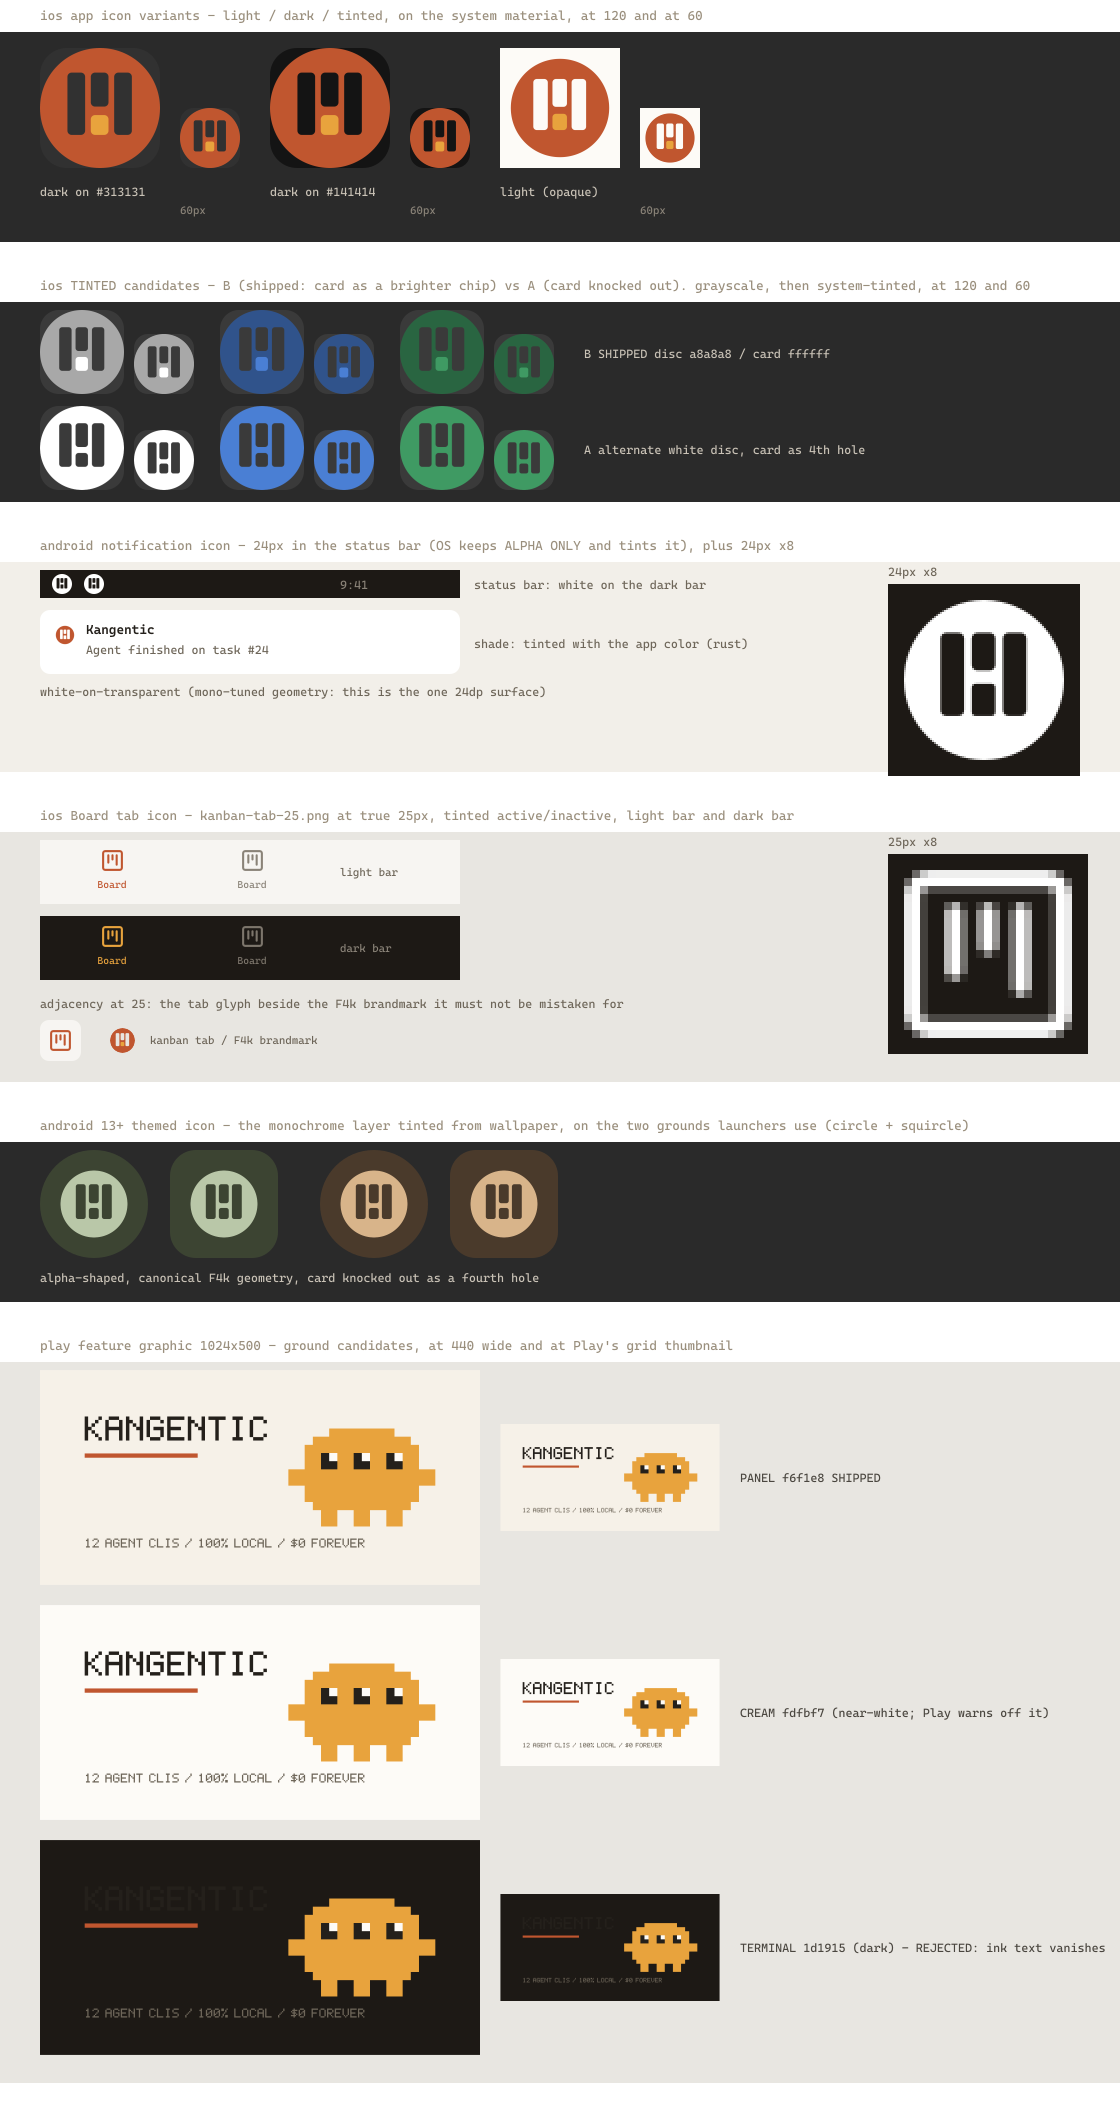
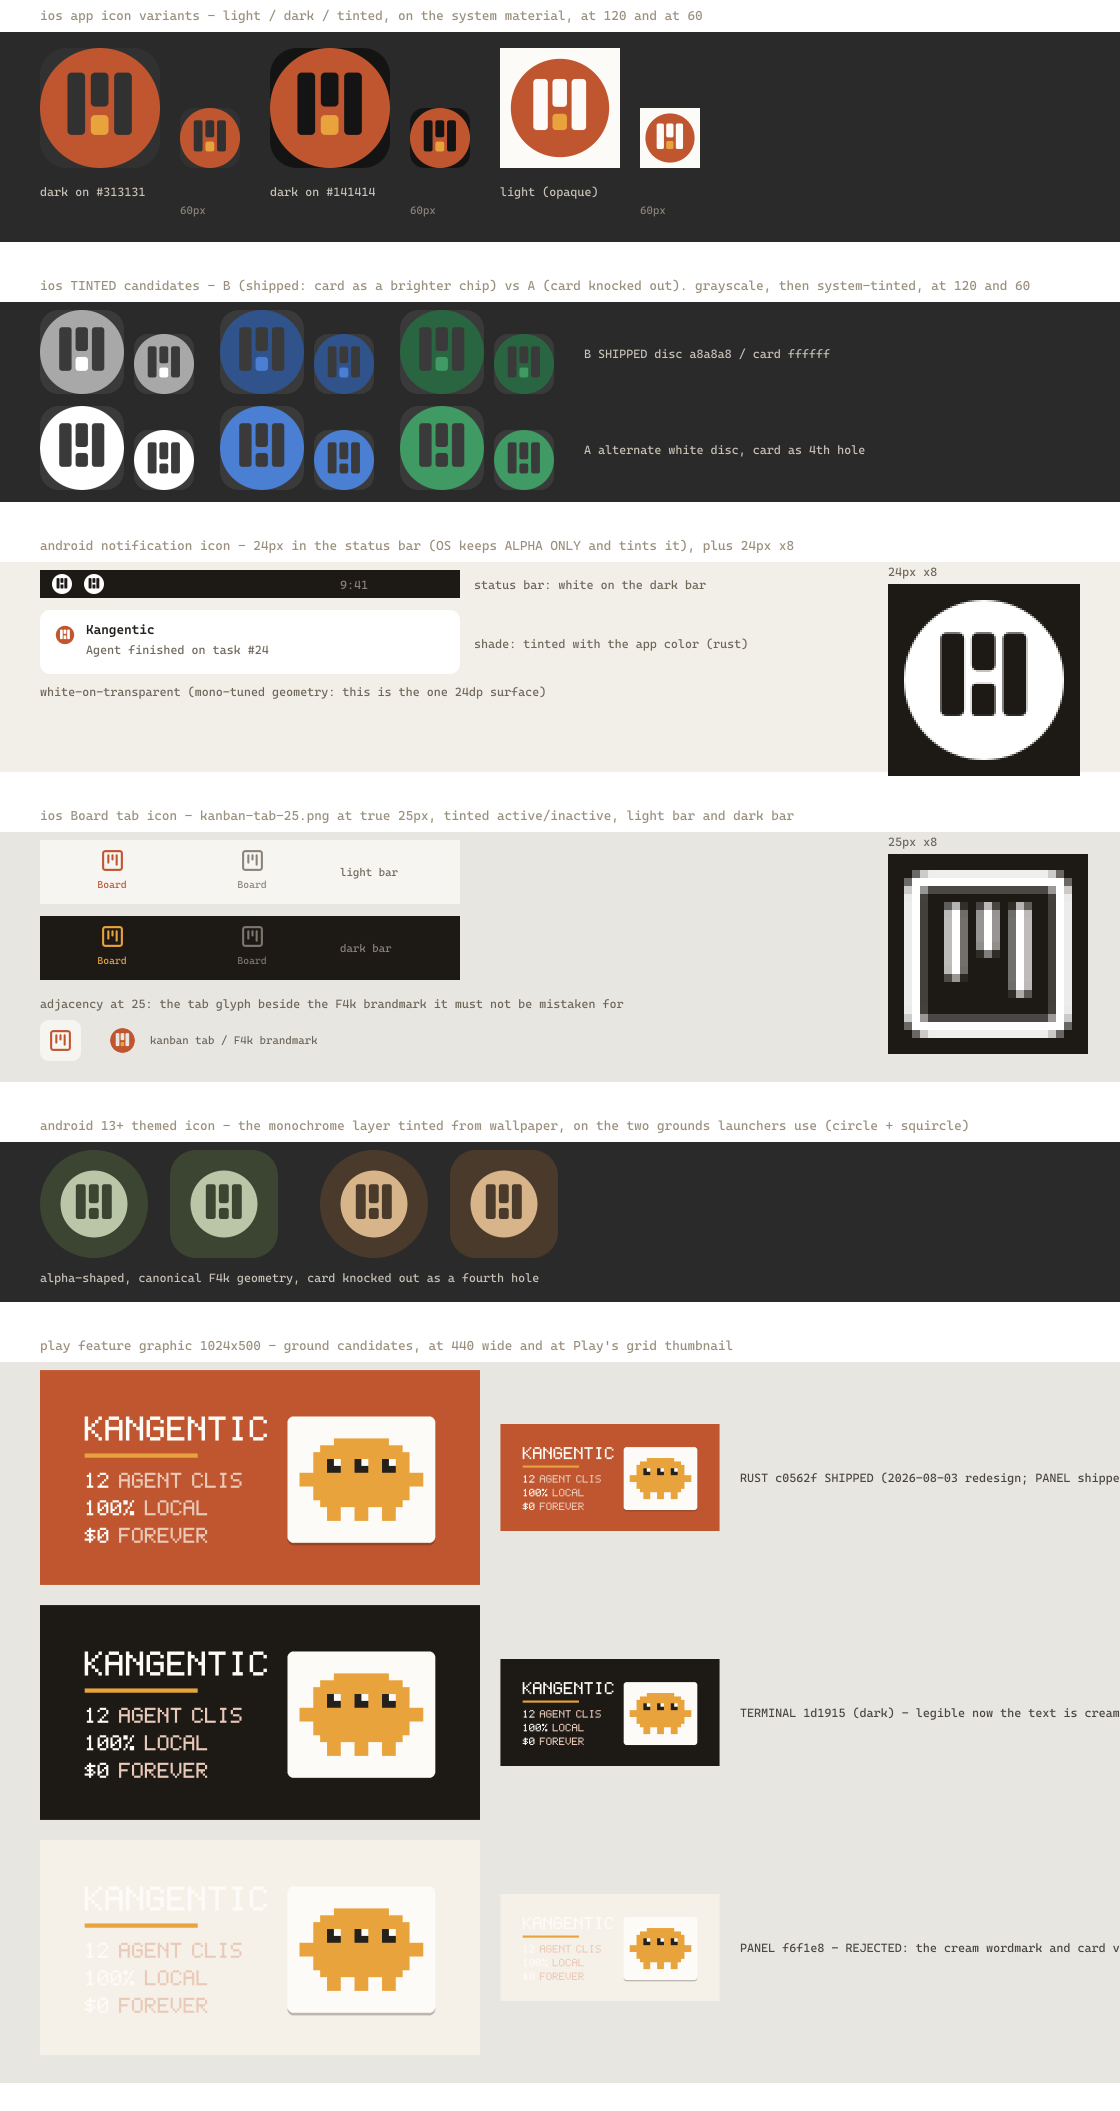
feat(feature-graphic): redesign the Play graphic on the rust ground
The panel-tint composition read quiet on a store shelf. The maintainer
picked the rust direction from a rendered four-way exploration, then
settled the lockup across two annotated rounds: card top on the wordmark
cap line, card bottom on the proof stack's last baseline.

The new composition: cream wordmark, amber rule, a three-line proof stack
at 35px filling the band under the rule, and the Overseer on a cream card
with the system's straight-down crisp shadow. The stack derives from
PROOF_LINE (split on " / "), so the two surfaces cannot disagree on the
copy; cream numerals lead and the words step back, because the numbers
are the proof.

Correction of record in the lib header: the old rationale said a
side-by-side proof line "forces 14px", which held only for a ONE-line
tag; three stacked lines clear the card at 35px each. gen-review's
ground-candidate captions are rewritten for the inversion (PANEL is now
the rejected ground: the cream wordmark vanishes on it) and the
resources/README.md prose follows. The card constants carry a ROO_ prefix
after the FROZEN-K single-source gate caught CARD_RX colliding with
lib/mark.mjs, which is exactly what that gate is for.

Changed region(s): [[0.0312, 0.6466, 0.6562, 0.9853]]

diff --git a/resources/README.md b/resources/README.md
@@ -63,7 +63,7 @@ macOS tray would take a template PNG derived from the pure mono, not an SVG.
 | android-adaptive-monochrome.png (432) | `adaptiveIcon.monochromeImage`; Android 13+ themed icon | F4k (white, alpha-shaped) |
 | notification-icon.png (96) | `expo-notifications` plugin icon; Android status bar | F4k mono-tuned (white on transparent) |
 | splash-1024.png | splash mark (displays large) | card-K |
-| android-feature-graphic-1024x500.png | Play Store listing; REQUIRED beyond internal testing | wordmark + Overseer |
+| android-feature-graphic-1024x500.png | Play Store listing; REQUIRED beyond internal testing | wordmark + proof stack + Overseer on a card |
 | kanban-tab-25.png | iOS tab bar, 1x of the 25pt metric | kanban glyph (white on transparent) |
 | kanban-tab-50.png | iOS tab bar, 2x of the 25pt metric | kanban glyph (white on transparent) |
 | kanban-tab-75.png | iOS tab bar, 3x of the 25pt metric | kanban glyph (white on transparent) |
@@ -82,4 +82,4 @@ double it. Tinted is grayscale because iOS maps luminance onto the tint.
 
 The feature graphic is the ONE file here with no alpha channel (Play rejects
 transparency and crops the edges in some placements), which is why it uses the
-panel tint rather than near-white cream and keeps all content inset.
+saturated rust ground rather than near-white cream and keeps all content inset.
